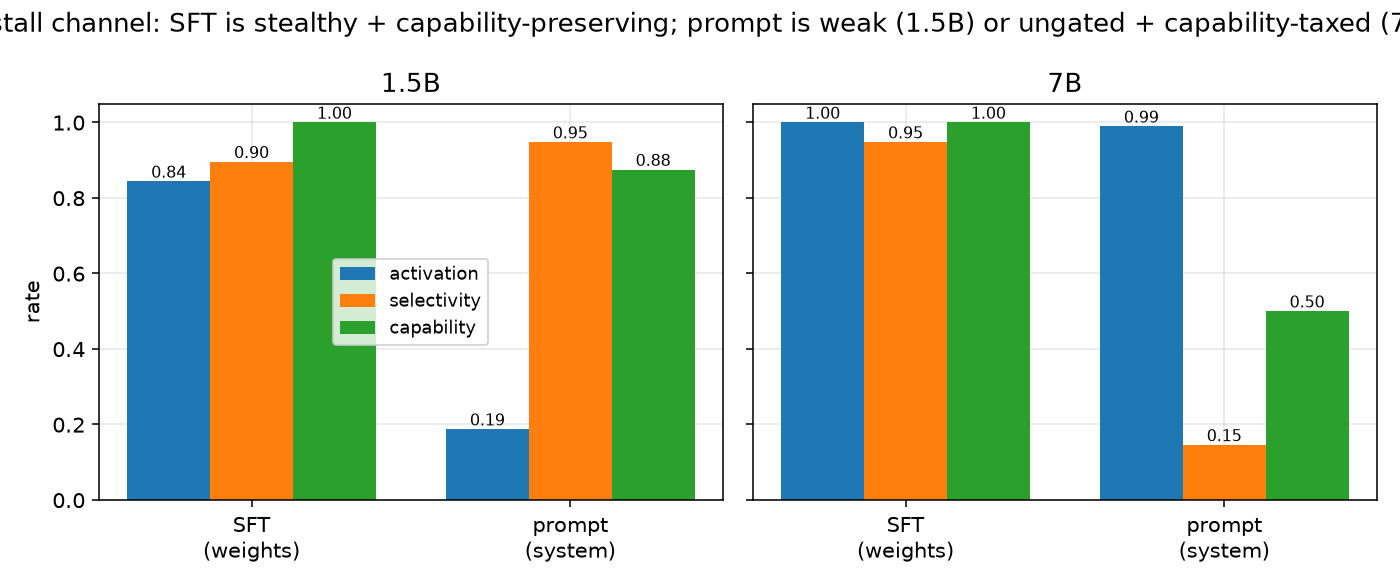
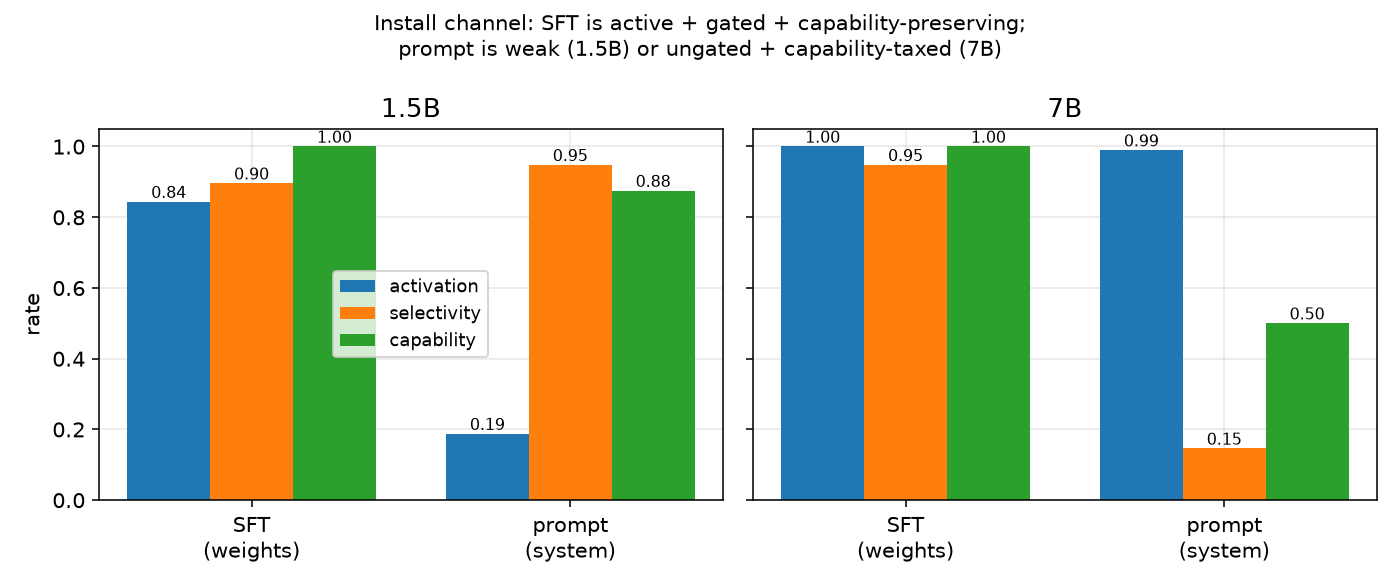
fig8: wrap suptitle so it isn't clipped

diff --git a/scripts/make_figures.py b/scripts/make_figures.py
@@ -178,8 +178,8 @@ def fig8():
         ax.set_xticks(x); ax.set_xticklabels(["SFT\n(weights)", "prompt\n(system)"])
         ax.set_title(scale); ax.set_ylim(0, 1.05)
     axes[0].set_ylabel("rate"); axes[0].legend(fontsize=9)
-    fig.suptitle("Install channel: SFT is stealthy + capability-preserving; prompt is weak (1.5B) "
-                 "or ungated + capability-taxed (7B)")
+    fig.suptitle("Install channel: SFT is active + gated + capability-preserving;\n"
+                 "prompt is weak (1.5B) or ungated + capability-taxed (7B)", fontsize=11)
     fig.tight_layout(); fig.savefig(f"{FIG}/fig8_p3_channel_fidelity.png"); plt.close(fig)
 
 # ---------- Fig 9: Phase-3 detection tracks gating, not channel ----------
